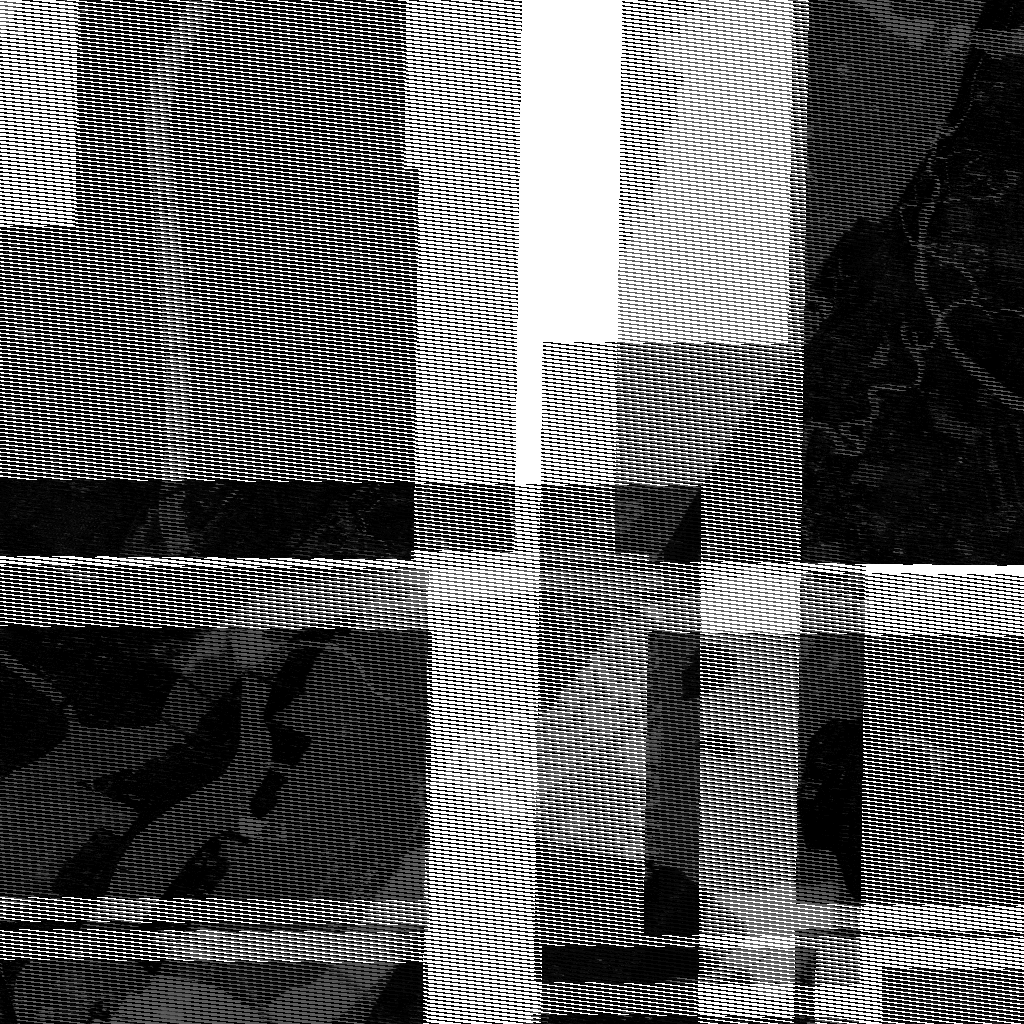
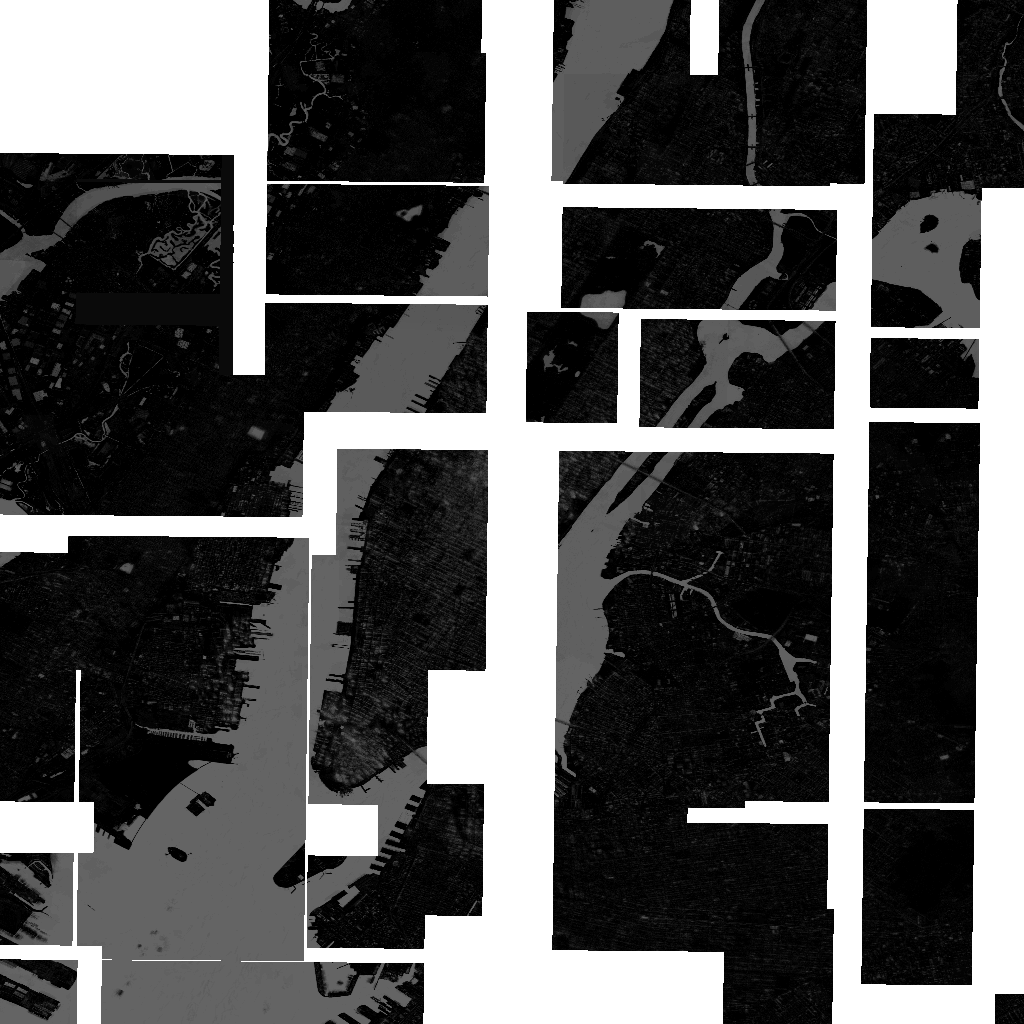
Update Manhattan water probability assets

diff --git a/storybook/src/atmosphere/OceanCulling.stories.tsx b/storybook/src/atmosphere/OceanCulling.stories.tsx
@@ -1,12 +1,17 @@
 import type { Meta, StoryFn } from '@storybook/react-vite'
 import { TilesPlugin } from '3d-tiles-renderer/r3f'
-import { useEffect, useMemo, useState } from 'react'
+import {
+  useEffect,
+  useMemo,
+  useState,
+  type ReactElement
+} from 'react'
 import {
   BufferGeometry,
   CanvasTexture,
   DoubleSide,
   Float32BufferAttribute,
-  LinearFilter,
+  NearestFilter,
   Vector3
 } from 'three'
 
@@ -29,10 +34,11 @@ const MAXAR_WATER_PROBABILITY_RECTANGLE = new Rectangle(
   radians(-73.88),
   radians(40.84)
 )
+const MAXAR_LAND_THRESHOLD = 0
+const MAXAR_WATER_THRESHOLD = 90
 const MAXAR_OVERLAY_ALTITUDE = 80
-const MAXAR_OVERLAY_ALPHA = 180
+const MAXAR_OVERLAY_ALPHA = 220
 const MAXAR_OVERLAY_SEGMENTS = 96
-const MAXAR_OVERLAY_WATER_THRESHOLD = 50
 
 let maxarWaterClassifierPromise:
   | Promise<WaterOccurrenceTileClassifier>
@@ -84,7 +90,7 @@ export const Manhattan: StoryFn = () => {
   )
 }
 
-function MaxarClassificationOverlay(): JSX.Element | null {
+function MaxarClassificationOverlay(): ReactElement | null {
   const texture = useMaxarClassificationOverlayTexture()
   const geometry = useMemo(
     () =>
@@ -112,7 +118,7 @@ function MaxarClassificationOverlay(): JSX.Element | null {
       <meshBasicMaterial
         map={texture}
         transparent
-        depthTest={false}
+        depthTest
         depthWrite={false}
         side={DoubleSide}
         toneMapped={false}
@@ -173,8 +179,8 @@ function loadMaxarManhattanWaterClassifier(): Promise<WaterOccurrenceTileClassif
   ).then(
     raster =>
       new WaterOccurrenceTileClassifier(raster, {
-        landThreshold: -1,
-        waterThreshold: 0
+        landThreshold: MAXAR_LAND_THRESHOLD,
+        waterThreshold: MAXAR_WATER_THRESHOLD
       })
   )
   return maxarWaterClassifierPromise
@@ -218,10 +224,10 @@ async function loadMaxarClassificationOverlayTexture(
 ): Promise<CanvasTexture> {
   maxarOverlayTexturePromise ??= loadMaxarOverlayCanvas(path).then(canvas => {
     const texture = new CanvasTexture(canvas)
-    texture.flipY = false
+    texture.flipY = true
     texture.generateMipmaps = false
-    texture.minFilter = LinearFilter
-    texture.magFilter = LinearFilter
+    texture.minFilter = NearestFilter
+    texture.magFilter = NearestFilter
     texture.needsUpdate = true
     return texture
   })
@@ -251,18 +257,13 @@ async function loadMaxarOverlayCanvas(path: string): Promise<HTMLCanvasElement> 
   const data = image.data
   for (let i = 0; i < data.length; i += 4) {
     const value = data[i]
-    if (value === 255) {
-      data[i + 3] = 0
-    } else if (value >= MAXAR_OVERLAY_WATER_THRESHOLD) {
+    if (value !== 255 && value >= MAXAR_WATER_THRESHOLD) {
       data[i] = 255
       data[i + 1] = 0
       data[i + 2] = 0
       data[i + 3] = MAXAR_OVERLAY_ALPHA
     } else {
-      data[i] = 255
-      data[i + 1] = 230
-      data[i + 2] = 0
-      data[i + 3] = MAXAR_OVERLAY_ALPHA
+      data[i + 3] = 0
     }
   }
   context.putImageData(image, 0, 0)
